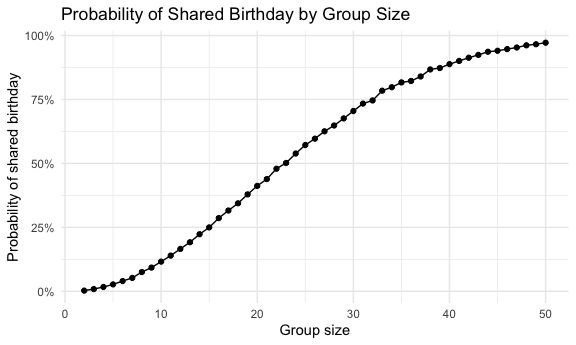
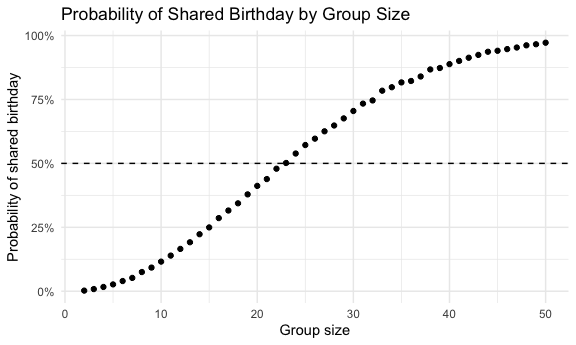
Adding mid dash line to plot

diff --git a/p8105_hw5_smo2147.md b/p8105_hw5_smo2147.md
@@ -52,11 +52,11 @@ set.seed(1)
 bday_results =
   tibble(
     n = 2:50,
-    bday_probability = 
-      map_dbl(n, \(x) mean(replicate(10000, bday_prob(x)
-                                     )
-                           )
-              )
+    bday_probability = map_dbl(
+      n, \(x) mean(replicate(10000, bday_prob(x)
+                             )
+                   )
+      )
   )
 
 bday_results
@@ -80,7 +80,7 @@ bday_results
 ``` r
 bday_results |> 
   ggplot(aes(x = n, y = bday_probability)) +
-  geom_line() +
+  geom_hline(yintercept = 0.5, linetype = "dashed") +
   geom_point() +
   scale_y_continuous(labels = percent_format()) +
   labs(
